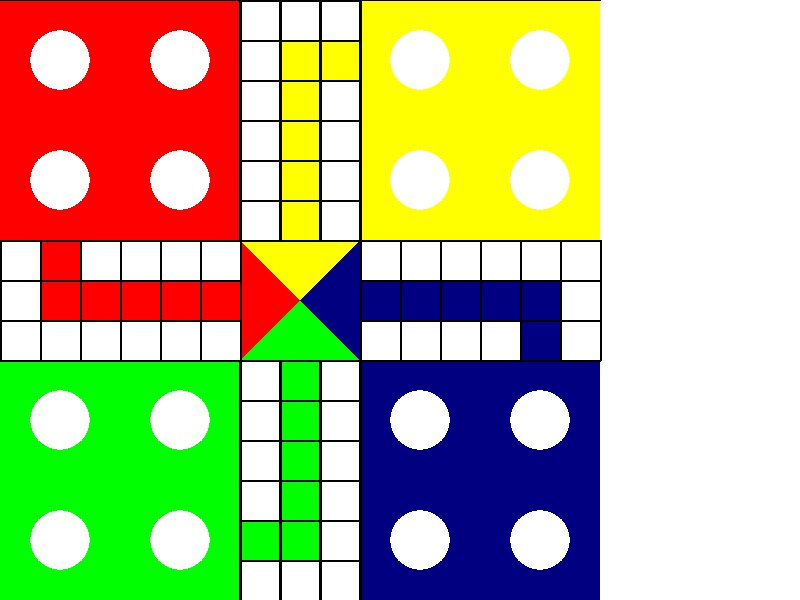
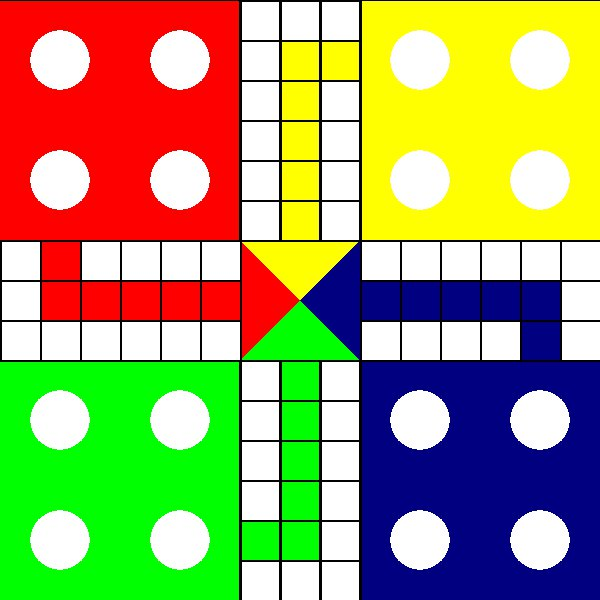
Add files via upload

diff --git a/Game.py b/Game.py
@@ -1,0 +1,243 @@
+import pygame, time, random
+from pygame.locals import *
+
+pygame.init()
+n = int(raw_input())
+green = (0, 255, 0)
+blue = (0, 0, 128)
+white = (255, 255, 255)
+black = (0, 0, 0)
+red = (255, 0, 0)
+yellow = (255, 255, 0)
+grey = (32, 32, 32)
+display_height = 600
+display_width = 600
+big_rectangle = 240
+hole_radius = 30
+gameExit = False
+gameOver = False
+gameDisplay= pygame.display.set_mode((display_width + 200, display_height))
+pygame.display.set_caption("LUDO FOR EVERYONE")
+board=pygame.image.load("Board.jpeg")
+
+# Message on screen 
+font = pygame.font.SysFont(None, 35)
+def message(msg, color, x_pos, y_pos):
+    pygame.draw.rect(gameDisplay, white, [display_width + 10, 0, 190, display_height])
+    screen_text = font.render(msg, True, color)
+    gameDisplay.blit(screen_text, [x_pos, y_pos])
+
+
+# Code for dice
+dice_size = 80
+x = display_width / 2 - dice_size / 2
+y = display_width / 2 - dice_size / 2
+dot_size = dice_size // 10
+mid = dice_size // 2
+left = top = dice_size // 4
+right = bottom = dice_size - left
+def dice_roll(num):
+    pygame.draw.rect(gameDisplay, grey, (x - 3, y - 3, dice_size + 6, dice_size + 6))
+    pygame.draw.rect(gameDisplay, black, (x - 3, y - 3, dice_size + 6, dice_size + 6))
+    if num == 1:
+        pygame.draw.circle(gameDisplay, white, (x + mid, y + mid), dot_size)
+    else:
+        if num == 2 or num == 3:
+            pygame.draw.circle(gameDisplay, white, (x + right, y + mid), dot_size)
+            pygame.draw.circle(gameDisplay, white, (x + left, y + mid), dot_size)
+            if num == 3:
+                pygame.draw.circle(gameDisplay, white, (x + mid, y + mid), dot_size)
+        else:
+            pygame.draw.circle(gameDisplay, white, (x + right, y + top), dot_size)
+            pygame.draw.circle(gameDisplay, white, (x + left, y + top), dot_size)
+            pygame.draw.circle(gameDisplay, white, (x + left, y + bottom), dot_size)
+            pygame.draw.circle(gameDisplay, white, (x + right, y + bottom), dot_size)
+            if num == 5:
+                pygame.draw.circle(gameDisplay, white, (x + mid, y + mid), dot_size)
+            elif num == 6:
+                pygame.draw.circle(gameDisplay, white, (x + mid, y + top), dot_size)
+                pygame.draw.circle(gameDisplay, white, (x + mid, y + bottom), dot_size)
+
+
+# Circles/Gatti
+class Gatti(object):
+    radius = 10
+
+    def __init__(self, color, pos, no):
+        self.color = color
+        self.pos = pos
+        self.no = no
+
+
+    def update(self, position, path):
+        pygame.draw.circle(gameDisplay, black, path[position], self.radius + 5)
+        pygame.draw.circle(gameDisplay, self.color, path[position], self.radius)
+        pygame.draw.circle(gameDisplay, white, path[position - 1], self.radius + 5)
+        pygame.display.update()
+        print position, path[position]
+
+    def draw(self, position):
+        pygame.draw.circle(gameDisplay, black, position, self.radius + 5)
+        pygame.draw.circle(gameDisplay, self.color, position, self.radius)
+
+
+def check_move(position, index, dice):
+    if position[index] + dice < 57:
+        return 1
+    if position[index] + dice == 57:
+        return 2
+    else:
+        return 0
+
+
+def check_kill(position, pos_index, dice, startingOne):
+    for key in turnPath:
+        if turnPath[key]!=turnPath[pos_index]:
+            if (turnPath[pos_index])[position[pos_index] + dice] == (turnPath[key])[position[key]]:
+                position[key] = 0
+                startingOne[key] = 0
+
+path_x = [60]
+start_path_x = 60
+path_y = [260]
+start_path_y = 260
+for i in xrange(2, 53):
+    if (i > 1 and i <= 5) or (i > 19 and i <= 24) or (i > 11 and i <= 13):
+        start_path_x += big_rectangle / 6
+    if (i > 6 and i <= 11) or (i > 39 and i <= 44) or (i > 50 and i <= 53):
+        start_path_y -= big_rectangle / 6
+    if i == 6:
+        start_path_x += big_rectangle / 6
+        start_path_y -= big_rectangle / 6
+    if (i > 13 and i <= 18) or (i > 32 and i <= 37) or (i > 24 and i <= 26):
+        start_path_y += big_rectangle / 6
+    if i == 19:
+        start_path_x += big_rectangle / 6
+        start_path_y += big_rectangle / 6
+    if (i > 26 and i <= 31) or (i > 37 and i <= 39) or (i > 45 and i <= 50):
+        start_path_x -= big_rectangle / 6
+    if i == 32:
+        start_path_x -= big_rectangle / 6
+        start_path_y += big_rectangle / 6
+    if i == 45:
+        start_path_x -= big_rectangle / 6
+        start_path_y -= big_rectangle / 6
+    path_x.append(start_path_x)
+    path_y.append(start_path_y)
+
+path_red = [(x1, y1) for x1, y1 in zip(path_x, path_y)]
+path_yellow = [(1000, 1000)] + path_red[13:] + path_red[:13] + [(300, 60), (300, 100), (300, 140), (300, 180),
+                                                                (300, 220), (300, 260)]
+path_blue = [(1000, 1000)] + path_red[26:] + path_red[:26] + [(540, 300), (500, 300), (460, 300), (420, 300),
+                                                              (380, 300), (340, 300)]
+path_green = [(1000, 1000)] + path_red[39:] + path_red[:39] + [(300, 540), (300, 500), (300, 460), (300, 420),
+                                                               (300, 380), (300, 340)]
+path_red = [(1000, 1000)] + path_red + [(60, 300), (100, 300), (140, 300), (180, 300), (220, 300), (260, 300)]
+del path_red[52], path_green[52], path_blue[52], path_yellow[52]
+print path_red
+print path_yellow
+print path_blue
+print path_green
+WIDTH = 40
+turnColor = {0: 'Red', 1: 'Yellow', 2: 'Blue', 3: 'Green'}
+turnPath = {0: path_red, 1: path_yellow, 2: path_blue, 3: path_green}
+
+
+def gameloop():
+    position = [0, 0, 0, 0]
+    turn = 0
+    startingOne = [0, 0, 0, 0]
+    FPS = 15
+    clock = pygame.time.Clock()
+    gameExit = False
+    gameOver = False
+    gameDisplay.blit(board, (0, 0))
+    red_gatti.draw(path_red[position[0]])
+    yellow_gatti.draw(path_yellow[position[1]])
+    blue_gatti.draw(path_blue[position[2]])
+    green_gatti.draw(path_green[position[3]])
+    # Main game loop
+    while not gameExit:
+        chance = 1
+        while gameOver == True:
+            gameDisplay.fill(white)
+            message("Game Over", black, display_height / 2, display_width / 2)
+            message("Winner:" + turnColor[winner], black, display_width / 2, display_height / 2 - 30)
+            message("Press Q to Quit and C to play again", blue, display_width / 2, display_height / 2 + 30)
+            pygame.display.update()
+
+            for event in pygame.event.get():
+                if event.type == pygame.KEYDOWN:
+                    if event.key == pygame.K_q:
+                        gameExit = True
+                        gameOver = False
+                    if event.key == pygame.K_c:
+                        gameloop()
+
+                    else:
+
+                        break
+        for event in pygame.event.get():
+            message('TURN : ' + turnColor[turn % 4], red, display_width + 15, display_height / 2)
+            if event.type == pygame.QUIT:
+                gameExit = True
+            if event.type == pygame.MOUSEBUTTONDOWN and event.button == 1:
+                dice = random.randrange(1, 7)
+                if dice == 1 or dice == 6:
+                    if dice == 1:
+                        startingOne[turn % 4] += 1
+                    chance += 1
+                dice_roll(dice)
+                if startingOne[turn % 4] >= 1:
+
+                    checked = check_move(position, turn % 4, dice)
+                    check_kill(position, turn % 4, dice ,startingOne)
+                    print checked
+                    if checked == 0:
+                        message("Invalid Move", black, display_width + 15, display_height / 2 - 40)
+                        if dice != 1 and dice != 6:
+                            turn += 1
+                        break
+                    elif checked == 2:
+                        gameOver = True
+                        winner = turn % 4
+                        continue
+
+                    else:
+                        for _ in xrange(1, dice + 1):
+                            gameDisplay.blit(board, (0, 0))
+                            dice_roll(dice)
+                            red_gatti.draw(path_red[position[0]])
+                            yellow_gatti.draw(path_yellow[position[1]])
+                            blue_gatti.draw(path_blue[position[2]])
+                            green_gatti.draw(path_green[position[3]])
+                            position[turn % 4] += 1
+                            if turn % 4 == 0:
+                                red_gatti.update(position[turn % 4], path_red)
+                            elif turn % 4 == 1:
+                                yellow_gatti.update(position[turn % 4], path_yellow)
+                            elif turn % 4 == 2:
+                                blue_gatti.update(position[turn % 4], path_blue)
+                            else:
+                                green_gatti.update(position[turn % 4], path_green)
+                            pygame.time.delay(120)
+                if chance == 1:
+                    turn += 1
+
+        pygame.display.update()
+        clock.tick(FPS)
+
+
+
+
+red_gatti = Gatti(red, [big_rectangle / 4, big_rectangle / 4], n)
+green_gatti = Gatti(green, [big_rectangle / 4, display_height - 3 * big_rectangle / 4], n)
+yellow_gatti = Gatti(yellow, [display_width - 3 * big_rectangle / 4, big_rectangle / 4], n)
+blue_gatti = Gatti(blue, [display_width - 3 * big_rectangle / 4, display_height - 3 * big_rectangle / 4], n)
+path_red[0]=(big_rectangle / 4, big_rectangle / 4)
+path_green[0]=(big_rectangle / 4, display_height - 3 * big_rectangle / 4)
+path_yellow[0]=(display_width - 3 * big_rectangle / 4, big_rectangle / 4)
+path_blue[0]=(display_width - 3 * big_rectangle / 4, display_height - 3 * big_rectangle / 4)
+gameloop()
+pygame.display.quit()
+quit()

diff --git a/Board.py b/Board.py
@@ -11,7 +11,7 @@ display_height=600
 display_width=600
 big_rectangle=240
 hole_radius=30
-gameDisplay= pygame.display.set_mode((display_width + 200, display_height))
+gameDisplay= pygame.display.set_mode((display_width, display_height))
 pygame.display.set_caption("LUDO FOR EVERYONE")
 gameDisplay.fill(white)
 
